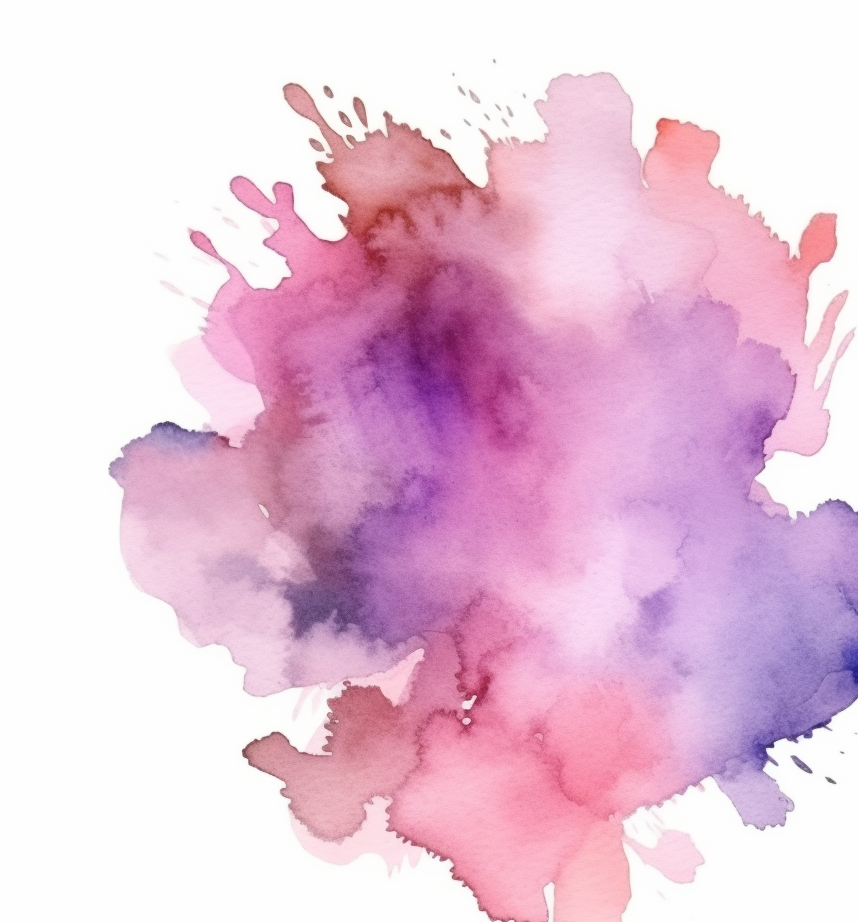
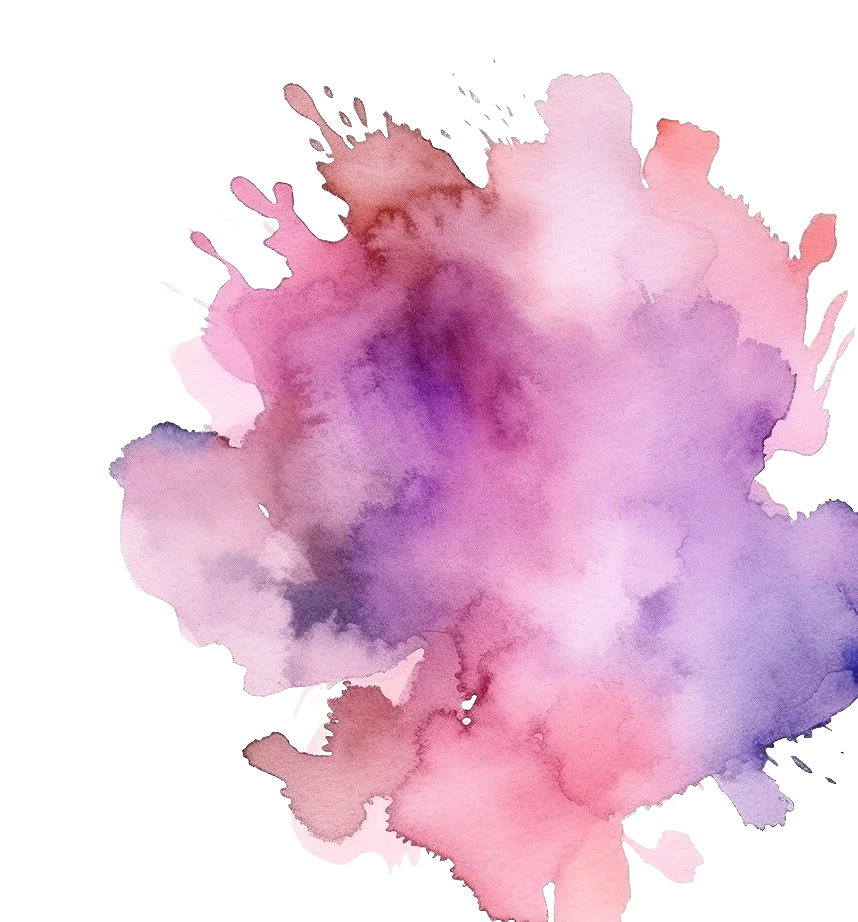
a propos

diff --git a/profil.html b/profil.html
@@ -31,6 +31,32 @@
         <p>
           Lorem ipsum dolor sit amet. Quo sunt neque et magni vitae nam esse consequatur non tempora dolor et deleniti ullam? Est nostrum inventore ut voluptatem repellat et illo deserunt.
         </p>
+
+        <h3>Coordonnées</h3>
+        <ul>
+          <li>
+            <img src="./img/phone.svg" class="marge-left">
+            <p>07 78 74 64 68</p>
+          </li>
+
+          <li>
+            <img src="./img/Mail.svg" class="marge-left">
+            <p>camille.bedeche@laposte.net</p>
+          </li>
+
+          <li>
+            <img src="./img/Location.svg" id="localisaion">
+            <p> Bouloire</p>
+          </li>
+        </ul>
+
+        <h3>Mes réseaux</h3>
+        <a href="https://www.linkedin.com/in/camille-b%C3%A9d%C3%A8che72/" target="_blank">
+          <img src="./img/linkedin.svg">
+        </a>
+        <a href="https://github.com/CamilleBe" target="_blank">
+          <img src="./img/github.svg">
+        </a>
       </div>
     </div>
 
@@ -38,7 +64,7 @@
       <div>
         <h2>SOFT SKILLS</h2>
         <div class="list">
-          <div>
+          <div class="container-line">
             <div class="line">
               <p>je suis une soft skills</p>
               <img src="./img/point-list.svg">
@@ -74,7 +100,7 @@
         <h2>HARD SKILLS</h2>
 
         <div class="list">
-          <div>
+          <div class="container-line">
             <div class="line">
               <p>je suis une soft skills</p>
               <img src="./img/point-list.svg">

diff --git a/profil.css b/profil.css
@@ -1,7 +1,14 @@
+body {
+    color: #3b3b3b;
+}
+/*POST IT*/
 .first-div {
     background-image: url("./img/accueil_watercolor.png");
+    background-position: left;
+    background-repeat: no-repeat;
     height: 500px;
     width: 50%;
+    padding-right: 25%;
 }
 
 #post-it {
@@ -9,6 +16,31 @@
     width: 80%;
     padding: 25px;
 }
+
+h3 {
+    margin-bottom: 20px;
+    margin-top: 10px;
+}
+
+.marge-left {
+    margin-left: 5px;
+}
+
+ul li {
+    display: flex;
+    align-items: center;
+    margin-bottom: 10px;
+}
+
+ul li img {
+    margin-right: 10px;
+}
+
+#localisaion {
+    width: 35px;
+    margin-right: 0;
+}
+
 
 /*skills*/
 #skills-container {
@@ -20,13 +52,17 @@
     justify-content: space-between;
     align-items: center;
     margin-bottom: 10px;
-    width: 95%;
+    width: 70%;
+    margin-left: 25%;
 }
 
 .list {
     display: flex;
     align-items: center;
-    width: 90%;
+}
+
+.container-line  {
+    width: 70%;
 }
 
 .horizontal {
@@ -40,3 +76,4 @@ h2 {
     margin-bottom: 20px;
     margin-top: 20px;
 }
+

diff --git a/index.html b/index.html
@@ -33,7 +33,7 @@
                 <a href="accueil-projet.html" target="_blank" id="btn-projects">
                     <button>Voir mes projets</button>
                 </a>
-                <a href="#" target="_blank" id="btn-contact">
+                <a href="profil.html" target="_blank" id="btn-contact">
                     <button>Contact</button>
                 </a>
             </div>

diff --git a/style.css b/style.css
@@ -40,7 +40,7 @@ main, #container-list {
     align-items: center;
 }
 
-.first-div, #second-div, #list-project, #apercu, #skills-container {
+.first-div, #second-div, #list-project, #apercu{
     width: 50%;
 }
 

diff --git a/descriptif-projet/gder.html b/descriptif-projet/gder.html
@@ -1,0 +1,10 @@
+<!DOCTYPE html>
+<html lang="en">
+<head>
+    <meta charset="UTF-8">
+    <title>Title</title>
+</head>
+<body>
+
+</body>
+</html>
